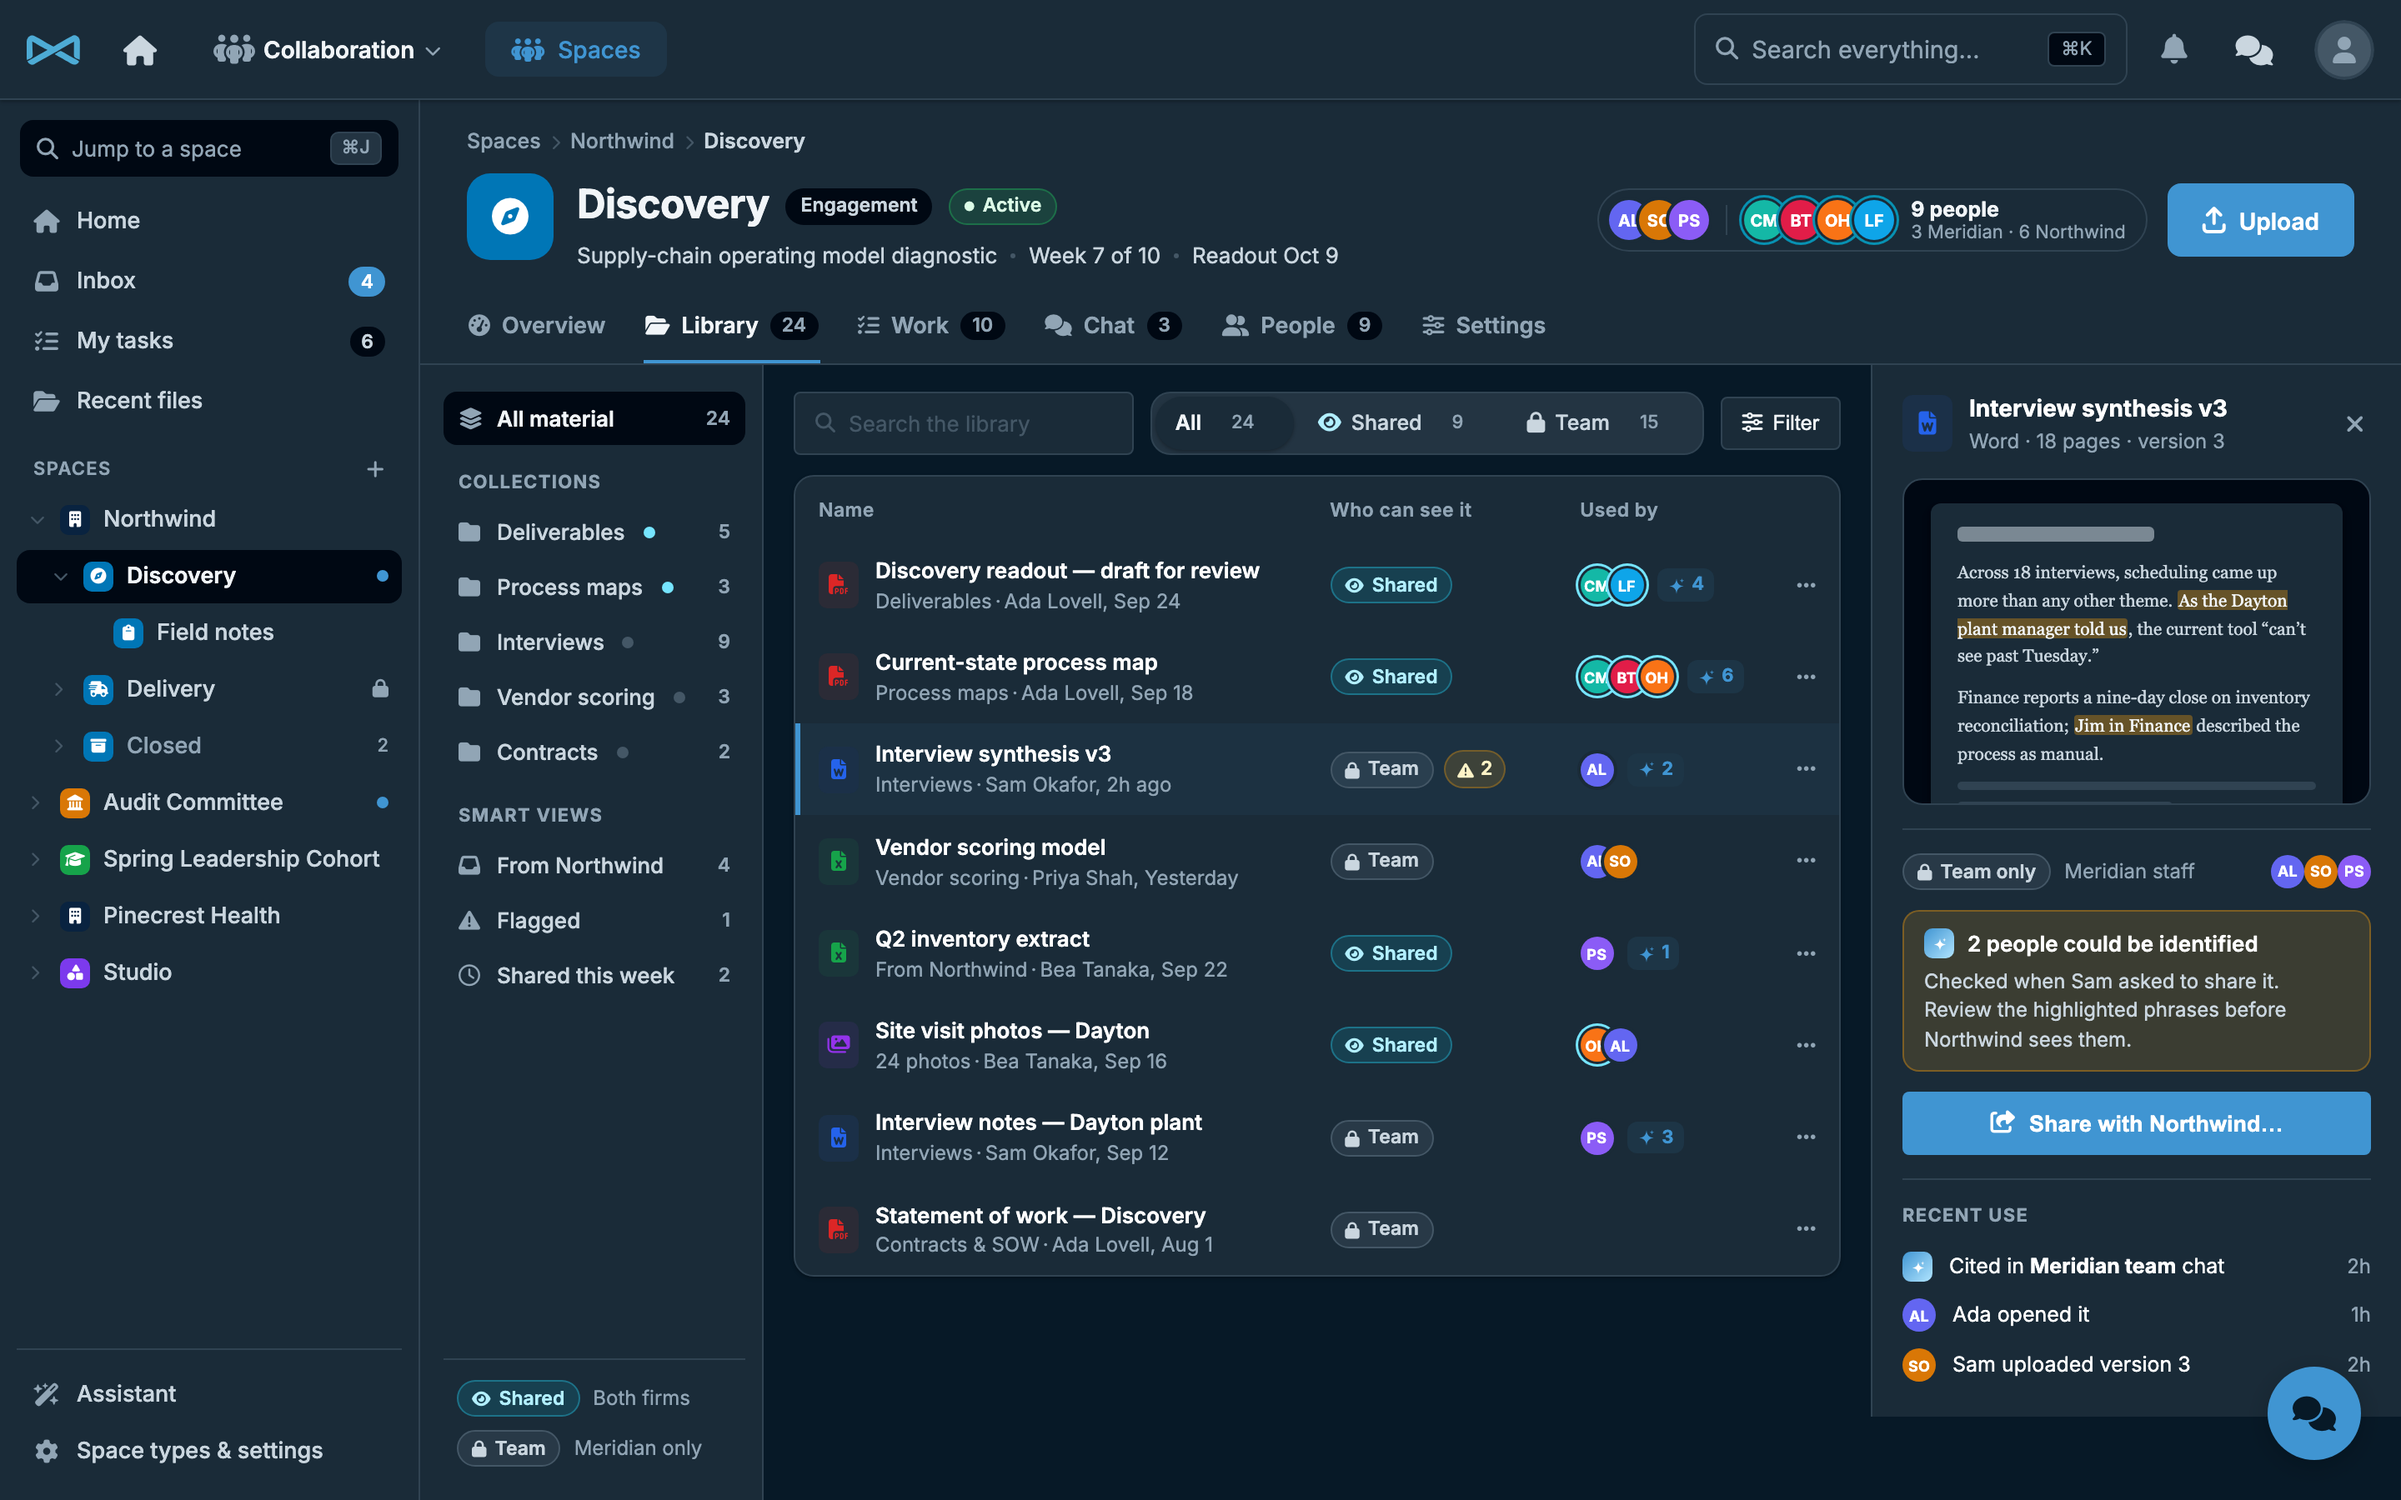
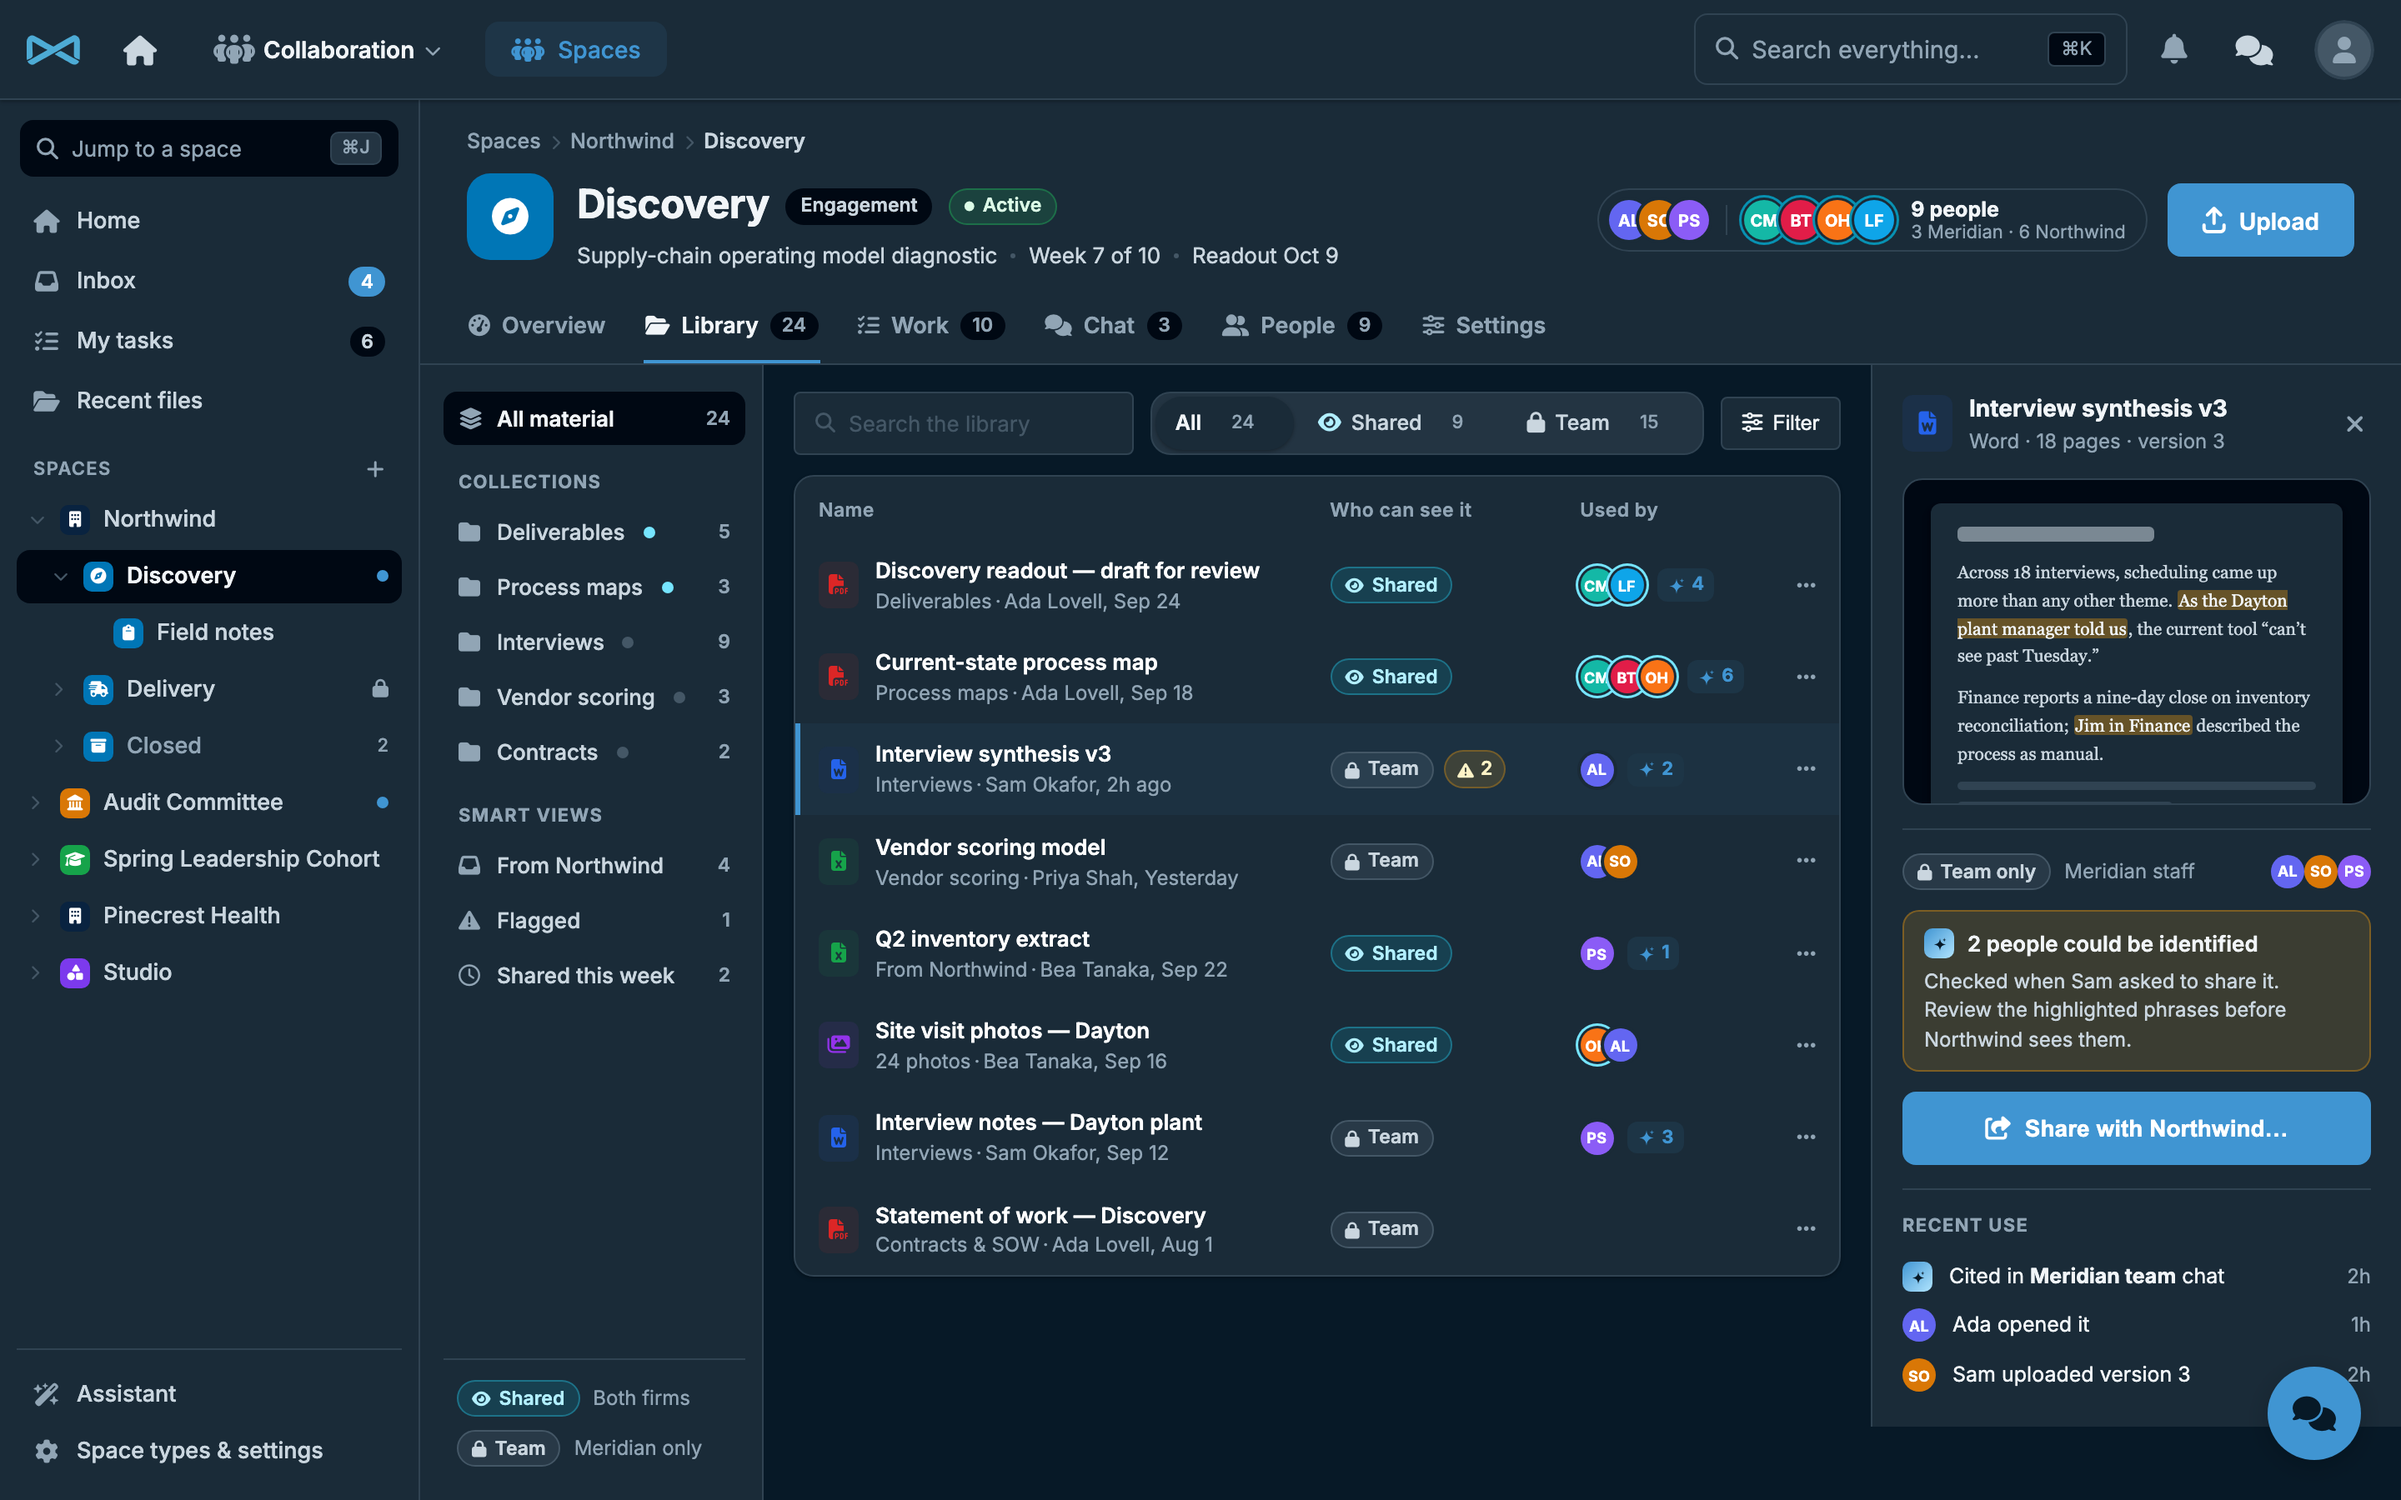
fix(collab): round 99 delivery — audience pill in F04, 44px drawer button, mj-empty-state tabs, and tight F04 budget

Changed region(s): [[0.7812, 0.7467, 1.0, 0.9333]]

diff --git a/packages/Angular/src/lib/collaboration-section.component.ts b/packages/Angular/src/lib/collaboration-section.component.ts
@@ -3,7 +3,7 @@ import { CommonModule } from '@angular/common';
 import { RegisterClass } from '@memberjunction/global';
 import { Metadata, RunView } from '@memberjunction/core';
 import { BaseResourceComponent } from '@memberjunction/ng-shared';
-import { MJPageLayoutComponent, MJPageBodyComponent, MJButtonDirective } from '@memberjunction/ng-ui-components';
+import { MJPageLayoutComponent, MJPageBodyComponent, MJButtonDirective, MJEmptyStateComponent } from '@memberjunction/ng-ui-components';
 import type { ResourceData } from '@memberjunction/core-entities';
 import { CollaborationClient } from '@mj-biz-apps/collaboration-entities';
 import {
@@ -45,6 +45,7 @@ import { CollaborationNoAccessComponent } from './no-access.component';
         MJPageLayoutComponent,
         MJPageBodyComponent,
         MJButtonDirective,
+        MJEmptyStateComponent,
         CollabSpaceRailComponent,
         CollabSpaceHeaderComponent,
         CollabSpaceTabsComponent,
@@ -193,28 +194,32 @@ import { CollaborationNoAccessComponent } from './no-access.component';
                                         />
                                     }
                                     @case ('Work') {
-                                        <div class="tab-placeholder">
-                                            <h3>Work & Tasks</h3>
-                                            <p>Tasks for {{ spaceTitle }} will display here via bizapps-tasks integration.</p>
-                                        </div>
+                                        <mj-empty-state
+                                            Icon="fa-solid fa-list-check"
+                                            Title="Work & Tasks"
+                                            [Message]="'Tasks for ' + spaceTitle + ' will display here via bizapps-tasks integration.'"
+                                        />
                                     }
                                     @case ('Chat') {
-                                        <div class="tab-placeholder">
-                                            <h3>Room & Conversations</h3>
-                                            <p>Space discussions and agent interactions for {{ spaceTitle }}.</p>
-                                        </div>
+                                        <mj-empty-state
+                                            Icon="fa-solid fa-comments"
+                                            Title="Room & Conversations"
+                                            [Message]="'Space discussions and agent interactions for ' + spaceTitle + '.'"
+                                        />
                                     }
                                     @case ('People') {
-                                        <div class="tab-placeholder">
-                                            <h3>People & Access</h3>
-                                            <p>Team members, outside client participants, and permission levels.</p>
-                                        </div>
+                                        <mj-empty-state
+                                            Icon="fa-solid fa-user-group"
+                                            Title="People & Access"
+                                            Message="Team members, outside client participants, and permission levels."
+                                        />
                                     }
                                     @case ('Settings') {
-                                        <div class="tab-placeholder">
-                                            <h3>Space Settings</h3>
-                                            <p>Configuration, Assistant retrieval rules, and space lifecycle controls.</p>
-                                        </div>
+                                        <mj-empty-state
+                                            Icon="fa-solid fa-sliders"
+                                            Title="Space Settings"
+                                            Message="Configuration, Assistant retrieval rules, and space lifecycle controls."
+                                        />
                                     }
                                 }
                             </div>

diff --git a/packages/AngularWidgets/src/lib/share-check.component.ts b/packages/AngularWidgets/src/lib/share-check.component.ts
@@ -143,6 +143,7 @@ import { COLLAB_TOKENS_CSS } from './tokens';
       max-height: 100%;
       min-height: 0;
       box-sizing: border-box;
+      color: var(--mj-text-primary);
       font-family: var(--mj-font-family, Inter, sans-serif);
       font-size: 14px;
       line-height: var(--mjc-line-height);
@@ -290,13 +291,18 @@ import { COLLAB_TOKENS_CSS } from './tokens';
       padding: 0 12px;
       border-radius: var(--mj-radius-sm);
       border: 1px solid var(--mj-border-default);
-      background: var(--mj-bg-surface);
+      background: var(--mj-bg-surface-sunken);
+      color: var(--mj-text-primary);
       font-size: 13px;
       font-weight: 500;
       cursor: pointer;
       display: inline-flex;
       align-items: center;
       gap: 6px;
+
+      i {
+        font-size: 13px;
+      }
 
       &:hover {
         background: var(--mj-bg-surface-hover);
@@ -421,9 +427,9 @@ import { COLLAB_TOKENS_CSS } from './tokens';
       padding: 0 20px;
       border-radius: var(--mj-radius-md);
       border: 1px solid var(--mj-border-default);
-      background: var(--mj-bg-surface);
+      background: var(--mj-bg-surface-sunken);
       color: var(--mj-text-primary);
-      font-size: 13px;
+      font-size: 14px;
       font-weight: 600;
       cursor: pointer;
       display: inline-flex;
@@ -475,14 +481,14 @@ import { COLLAB_TOKENS_CSS } from './tokens';
     }
 
     .ai-av.md {
-      width: 34px;
-      height: 34px;
-      font-size: 16px;
+      width: 32px;
+      height: 32px;
+      font-size: 14px;
       border-radius: 9px;
       display: inline-grid;
       place-items: center;
       background: linear-gradient(135deg, var(--mjc-ai-from), var(--mjc-ai-to));
-      color: #fff;
+      color: var(--mj-text-inverse);
       flex: none;
     }
 

diff --git a/packages/UXGallery/src/frames/frame-04.component.ts b/packages/UXGallery/src/frames/frame-04.component.ts
@@ -6,6 +6,7 @@ import {
   CollabSpaceTabsComponent,
   CollabSpaceLibraryComponent,
   CollabShareCheckDialogComponent,
+  CollabAudiencePillComponent,
 } from '@mj-biz-apps/collaboration-ng-widgets';
 import { MJButtonDirective } from '@memberjunction/ng-ui-components';
 import { FRAME_04_FIXTURE } from '../fixtures/frame-04.fixture';
@@ -20,6 +21,7 @@ import { FRAME_04_FIXTURE } from '../fixtures/frame-04.fixture';
     CollabSpaceTabsComponent,
     CollabSpaceLibraryComponent,
     CollabShareCheckDialogComponent,
+    CollabAudiencePillComponent,
     MJButtonDirective,
   ],
   template: `
@@ -53,6 +55,12 @@ import { FRAME_04_FIXTURE } from '../fixtures/frame-04.fixture';
             [Subtitle]="f.header.subtitle"
           >
             <div actions class="row gap8">
+              <mjc-audience-pill
+                [StaffAvatars]="f.header.staffAvatars"
+                [OutsideAvatars]="f.header.outsideAvatars"
+                [TotalPeople]="f.header.totalPeople"
+                [Summary]="f.header.audienceSummary"
+              ></mjc-audience-pill>
               <button mjButton variant="primary" size="md"><i class="fa-solid fa-arrow-up-from-bracket"></i>Upload</button>
             </div>
             <mjc-space-tabs

diff --git a/packages/AngularWidgets/src/lib/item-preview.component.ts b/packages/AngularWidgets/src/lib/item-preview.component.ts
@@ -100,6 +100,9 @@ import { COLLAB_TOKENS_CSS } from './tokens';
   styles: [COLLAB_TOKENS_CSS, `
     :host {
       display: block;
+      color: var(--mj-text-primary);
+      font-family: var(--mj-font-family, Inter, sans-serif);
+      font-size: 14px;
       line-height: var(--mjc-line-height);
     }
 
@@ -220,14 +223,15 @@ import { COLLAB_TOKENS_CSS } from './tokens';
     .share-btn-full {
       width: 100%;
       margin-top: 12px;
-      height: 38px;
+      min-height: 44px;
+      height: 44px;
       display: inline-flex;
       align-items: center;
       justify-content: center;
       gap: 8px;
       font-weight: 600;
-      font-size: 13.5px;
-      border-radius: var(--mj-radius-sm);
+      font-size: 14px;
+      border-radius: var(--mj-radius-md);
       border: 0;
       background: var(--mj-brand-primary);
       color: var(--mj-brand-on-primary);
@@ -262,7 +266,7 @@ import { COLLAB_TOKENS_CSS } from './tokens';
       display: inline-grid;
       place-items: center;
       background: linear-gradient(135deg, var(--mjc-ai-from), var(--mjc-ai-to));
-      color: #fff;
+      color: var(--mj-text-inverse);
       flex: none;
     }
 

diff --git a/e2e/specs/frame-04-share-check.spec.ts b/e2e/specs/frame-04-share-check.spec.ts
@@ -155,8 +155,8 @@ test.describe('Frame 04 — Share Check Dialog', () => {
         const diffRatio = numDiffPixels / totalPixels;
         console.log(`Frame 04 Share Check visual diff: ${numDiffPixels} / ${totalPixels} pixels (${(diffRatio * 100).toFixed(2)}%)`);
 
-        // Budget: Full Chromium font antialiasing on backdrop + modal (CI Linux: <= 100,000 px [measured 98,665 repeatable + margin for Linux FreeType variation], local macOS: <= 105,000 px)
-        const budget = process.env.CI ? 100000 : 105000;
+        // Budget: Full Chromium font antialiasing on backdrop + modal (CI Linux: <= 60,000 px [measured 57,801 repeatable], local macOS: <= 65,000 px)
+        const budget = process.env.CI ? 60000 : 65000;
         expect(numDiffPixels).toBeLessThanOrEqual(budget);
     });
 });

diff --git a/packages/AngularWidgets/src/lib/ask-box.component.ts b/packages/AngularWidgets/src/lib/ask-box.component.ts
@@ -48,6 +48,9 @@ import { COLLAB_TOKENS_CSS } from './tokens';
   styles: [COLLAB_TOKENS_CSS, `
     :host {
       display: block;
+      color: var(--mj-text-primary);
+      font-family: var(--mj-font-family, Inter, sans-serif);
+      font-size: 14px;
       line-height: var(--mjc-line-height);
     }
 
@@ -75,7 +78,7 @@ import { COLLAB_TOKENS_CSS } from './tokens';
       display: inline-grid;
       place-items: center;
       background: linear-gradient(135deg, var(--mjc-ai-from), var(--mjc-ai-to));
-      color: #fff;
+      color: var(--mj-text-inverse);
       flex: none;
     }
 

diff --git a/packages/AngularWidgets/src/lib/space-overview.component.ts b/packages/AngularWidgets/src/lib/space-overview.component.ts
@@ -204,6 +204,9 @@ export interface SubSpaceSummary {
       flex: 1;
       min-height: 0;
       overflow-y: auto;
+      color: var(--mj-text-primary);
+      font-family: var(--mj-font-family, Inter, sans-serif);
+      font-size: 14px;
       line-height: var(--mjc-line-height);
     }
 
@@ -391,7 +394,7 @@ export interface SubSpaceSummary {
       display: inline-grid;
       place-items: center;
       background: linear-gradient(135deg, var(--mjc-ai-from), var(--mjc-ai-to));
-      color: #fff;
+      color: var(--mj-text-inverse);
       flex: none;
     }
   `],

diff --git a/packages/AngularWidgets/src/lib/item-card.component.ts b/packages/AngularWidgets/src/lib/item-card.component.ts
@@ -42,6 +42,9 @@ import { COLLAB_TOKENS_CSS } from './tokens';
     :host {
       display: block;
       min-width: 0;
+      color: var(--mj-text-primary);
+      font-family: var(--mj-font-family, Inter, sans-serif);
+      font-size: 14px;
       line-height: var(--mjc-line-height);
     }
 
@@ -151,7 +154,7 @@ import { COLLAB_TOKENS_CSS } from './tokens';
       display: inline-grid;
       place-items: center;
       background: linear-gradient(135deg, var(--mjc-ai-from), var(--mjc-ai-to));
-      color: #fff;
+      color: var(--mj-text-inverse);
     }
   `],
 })

diff --git a/packages/AngularWidgets/src/lib/share-check-dialog.component.ts b/packages/AngularWidgets/src/lib/share-check-dialog.component.ts
@@ -39,6 +39,7 @@ import { COLLAB_TOKENS_CSS } from './tokens';
       position: absolute;
       inset: 0;
       z-index: 1000;
+      color: var(--mj-text-primary);
       font-family: var(--mj-font-family, Inter, sans-serif);
       font-size: 14px;
       line-height: var(--mjc-line-height);
